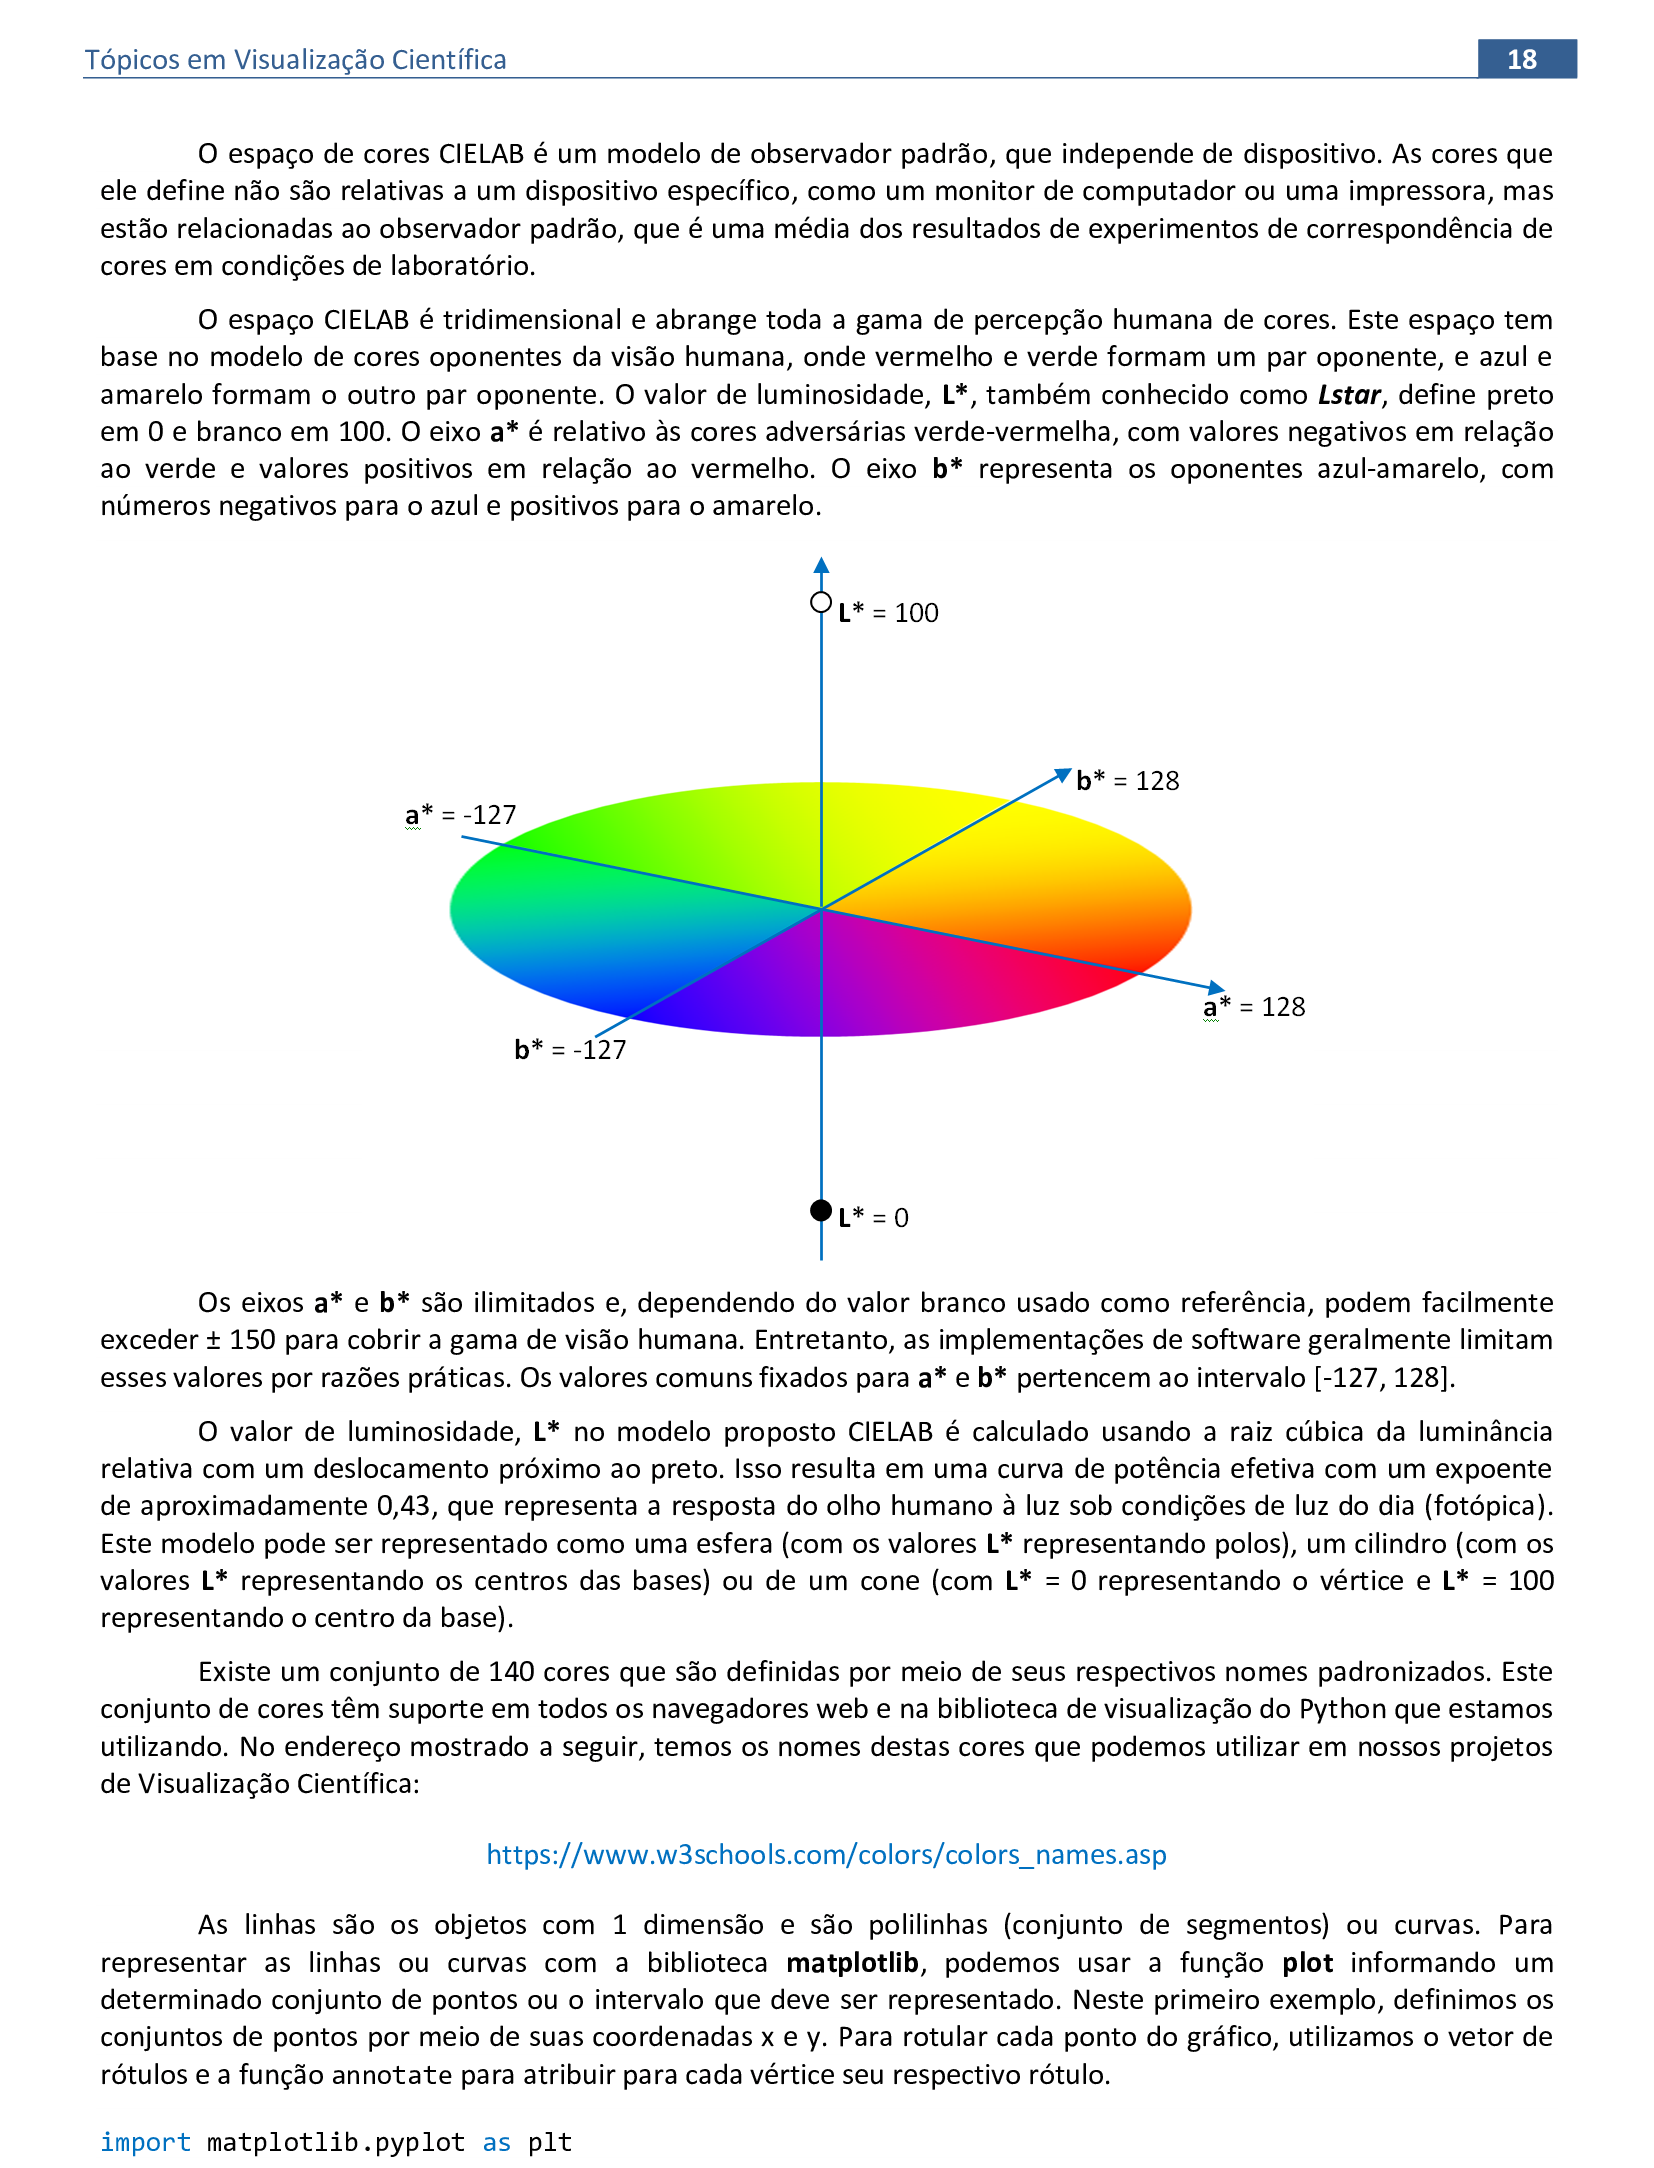
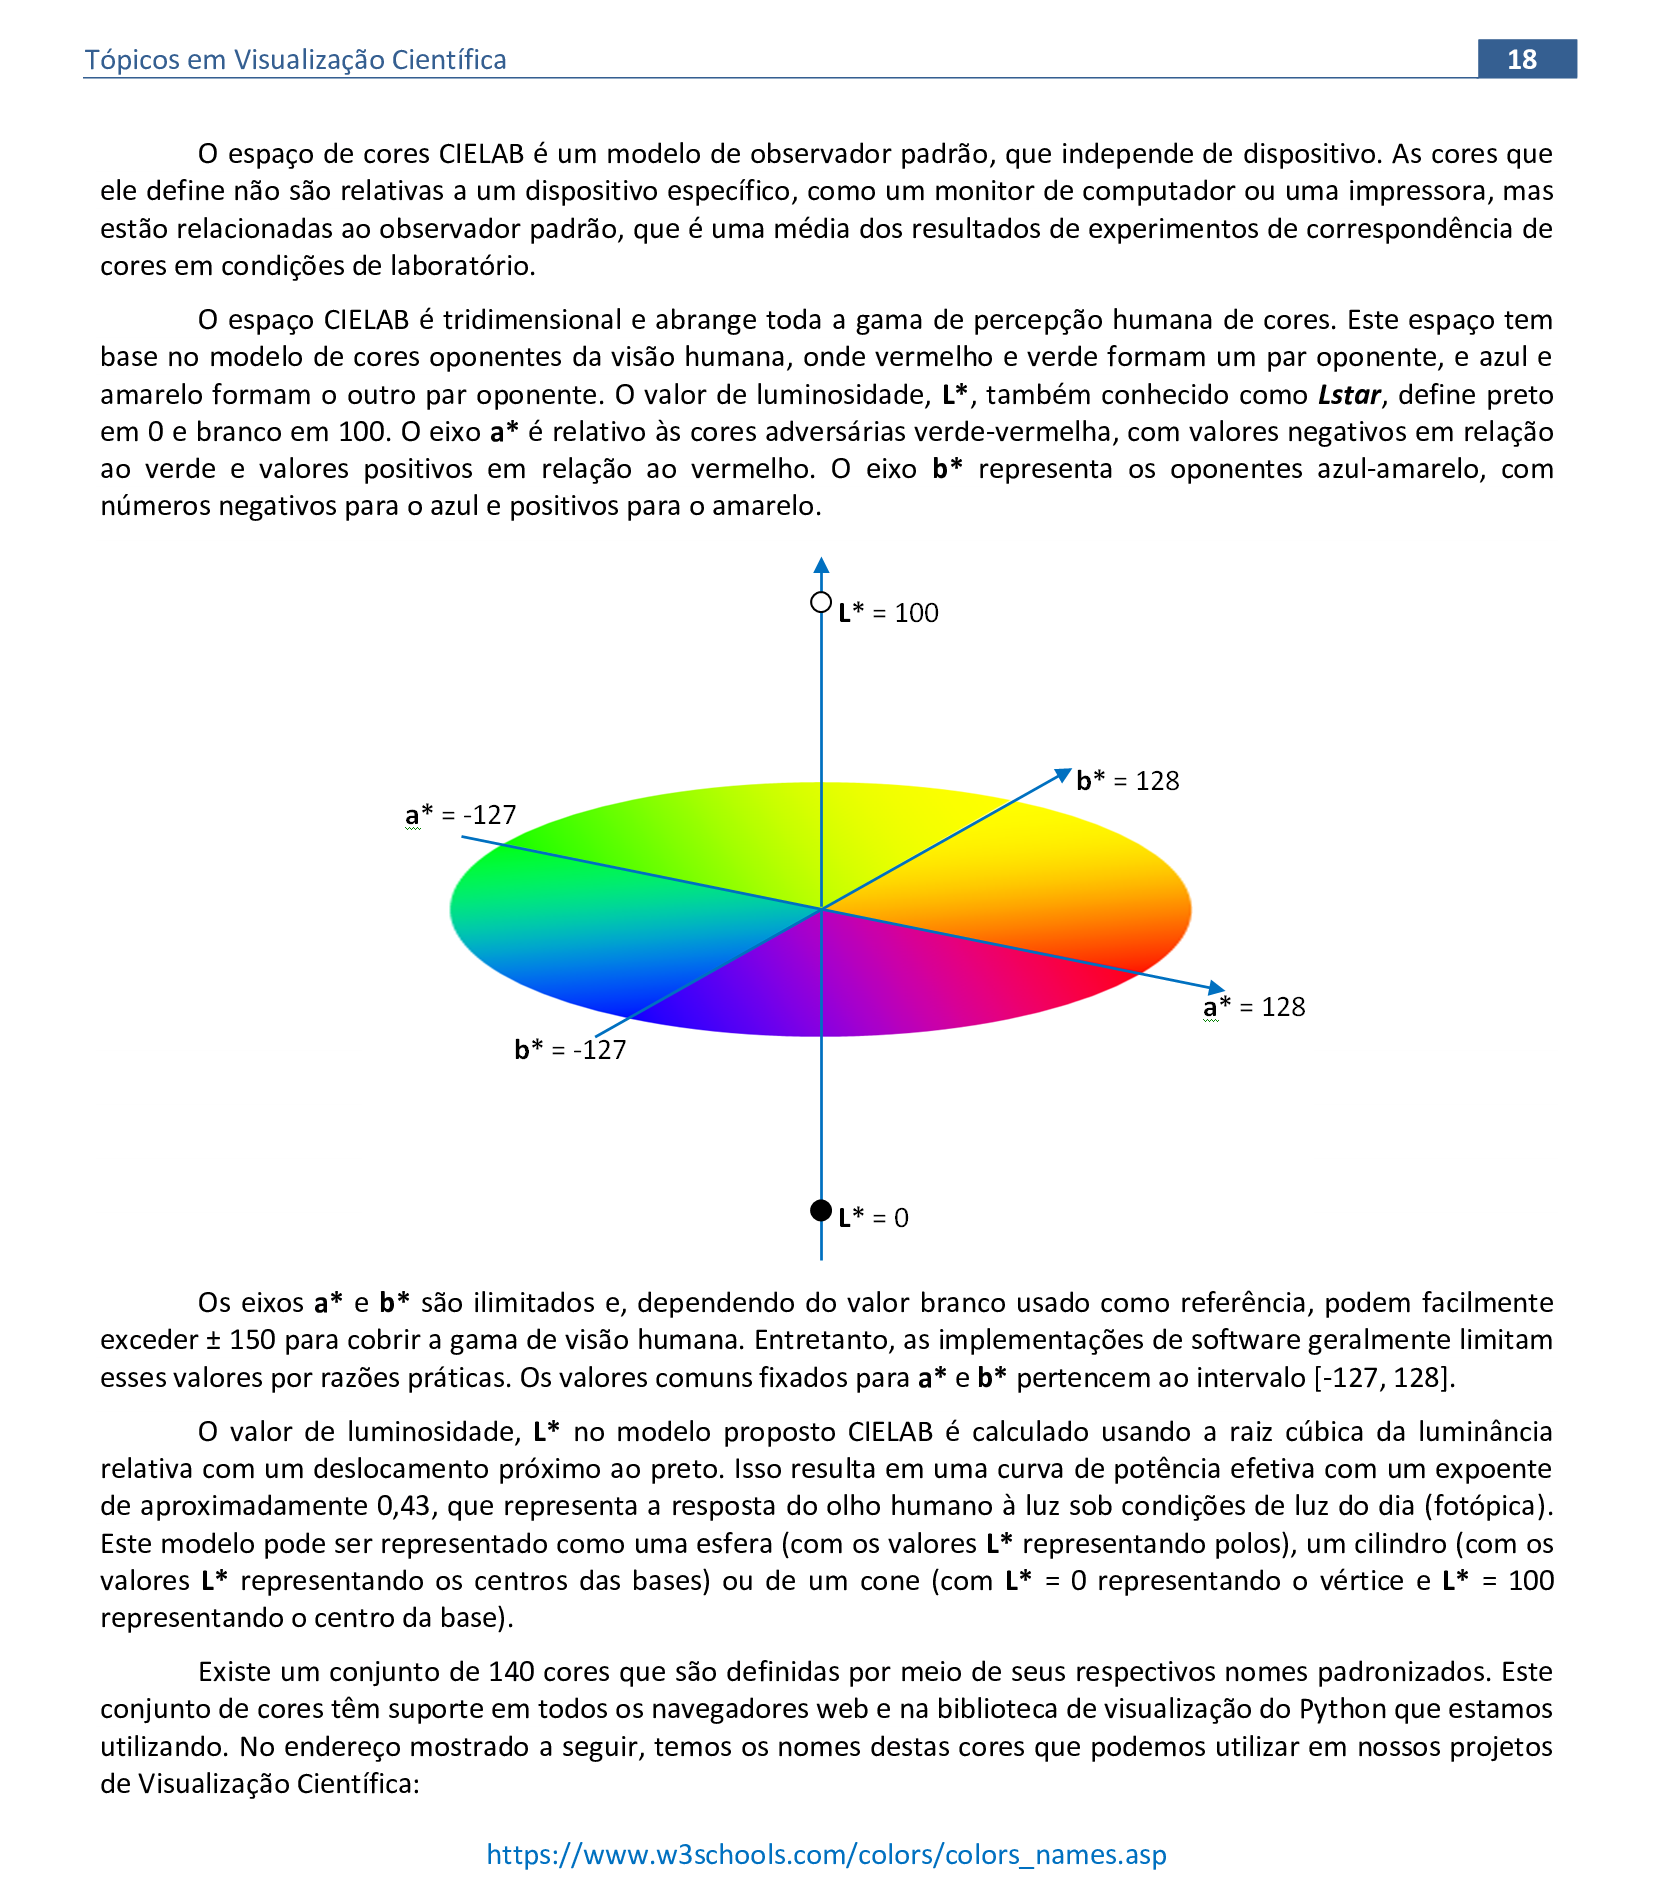
update

Changed region(s): [[0.0617, 0.0, 0.9559, 1.0]]

diff --git a/README.md b/README.md
@@ -102,8 +102,14 @@ plt.show()
   <img src="modulo2/59f0152f9f78561f6fb413c7e4f88ba0-15a.png" loading="lazy"/>
   <p class="topop"><a href="#modulo2" class="topo">voltar ao topo</a></p>
   <img src="modulo2/59f0152f9f78561f6fb413c7e4f88ba0-16.png" loading="lazy"/>
+  <div class="combo"><details class="sub"><summary>&#x1f517; Link</summary>
+  <p><a href="https://www.w3schools.com/colors/colors_rgb.asp" target="_blank">https://www.w3schools.com/colors/colors_rgb.asp</a></p></details></div>
+  <img src="modulo2/59f0152f9f78561f6fb413c7e4f88ba0-16a.png" loading="lazy"/>
   <p class="topop"><a href="#modulo2" class="topo">voltar ao topo</a></p>
   <img src="modulo2/59f0152f9f78561f6fb413c7e4f88ba0-17.png" loading="lazy"/>
+  <div class="combo"><details class="sub"><summary>&#x1f517; Link</summary>
+  <p><a href="https://www.w3schools.com/colors/colors_names.asp" target="_blank">https://www.w3schools.com/colors/colors_names.asp</a></p></details></div>
+  <img src="modulo2/59f0152f9f78561f6fb413c7e4f88ba0-17a.png" loading="lazy"/>
   <p class="topop"><a href="#modulo2" class="topo">voltar ao topo</a></p>
   <img src="modulo2/59f0152f9f78561f6fb413c7e4f88ba0-18.png" loading="lazy"/>
   <div class="combo"><details class="sub"><summary>&#x1f4c3; Código</summary>
